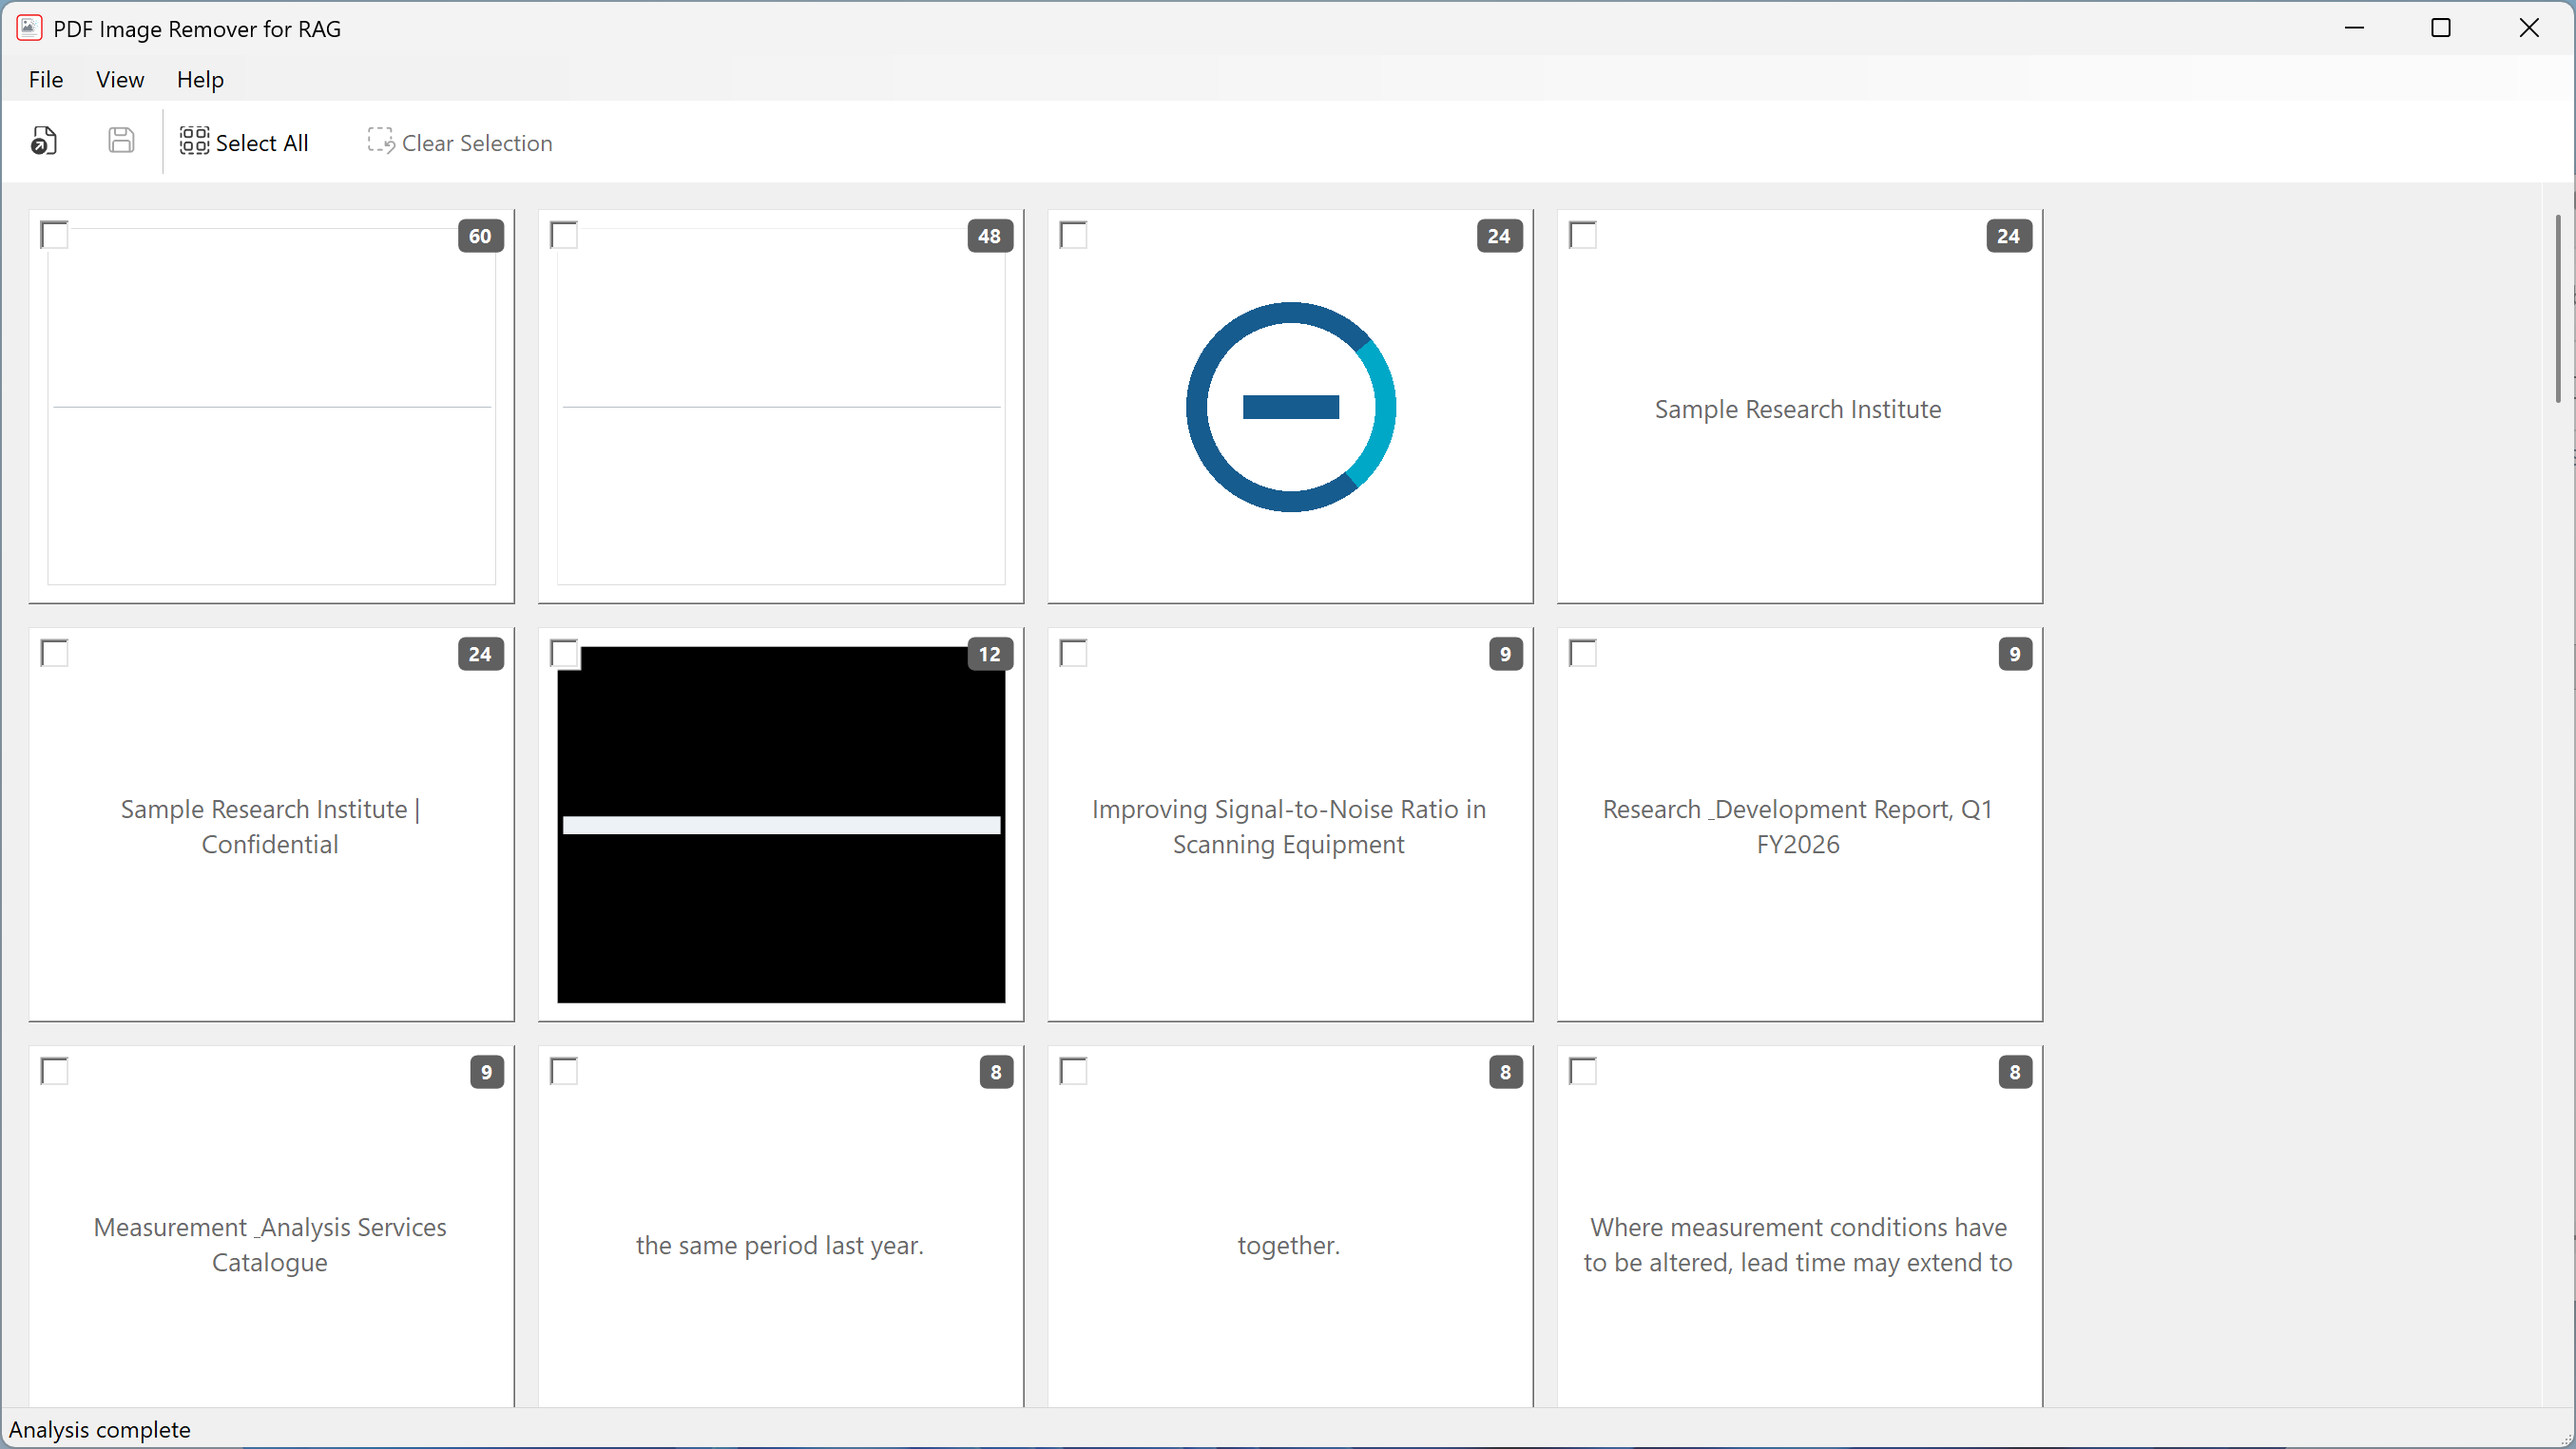
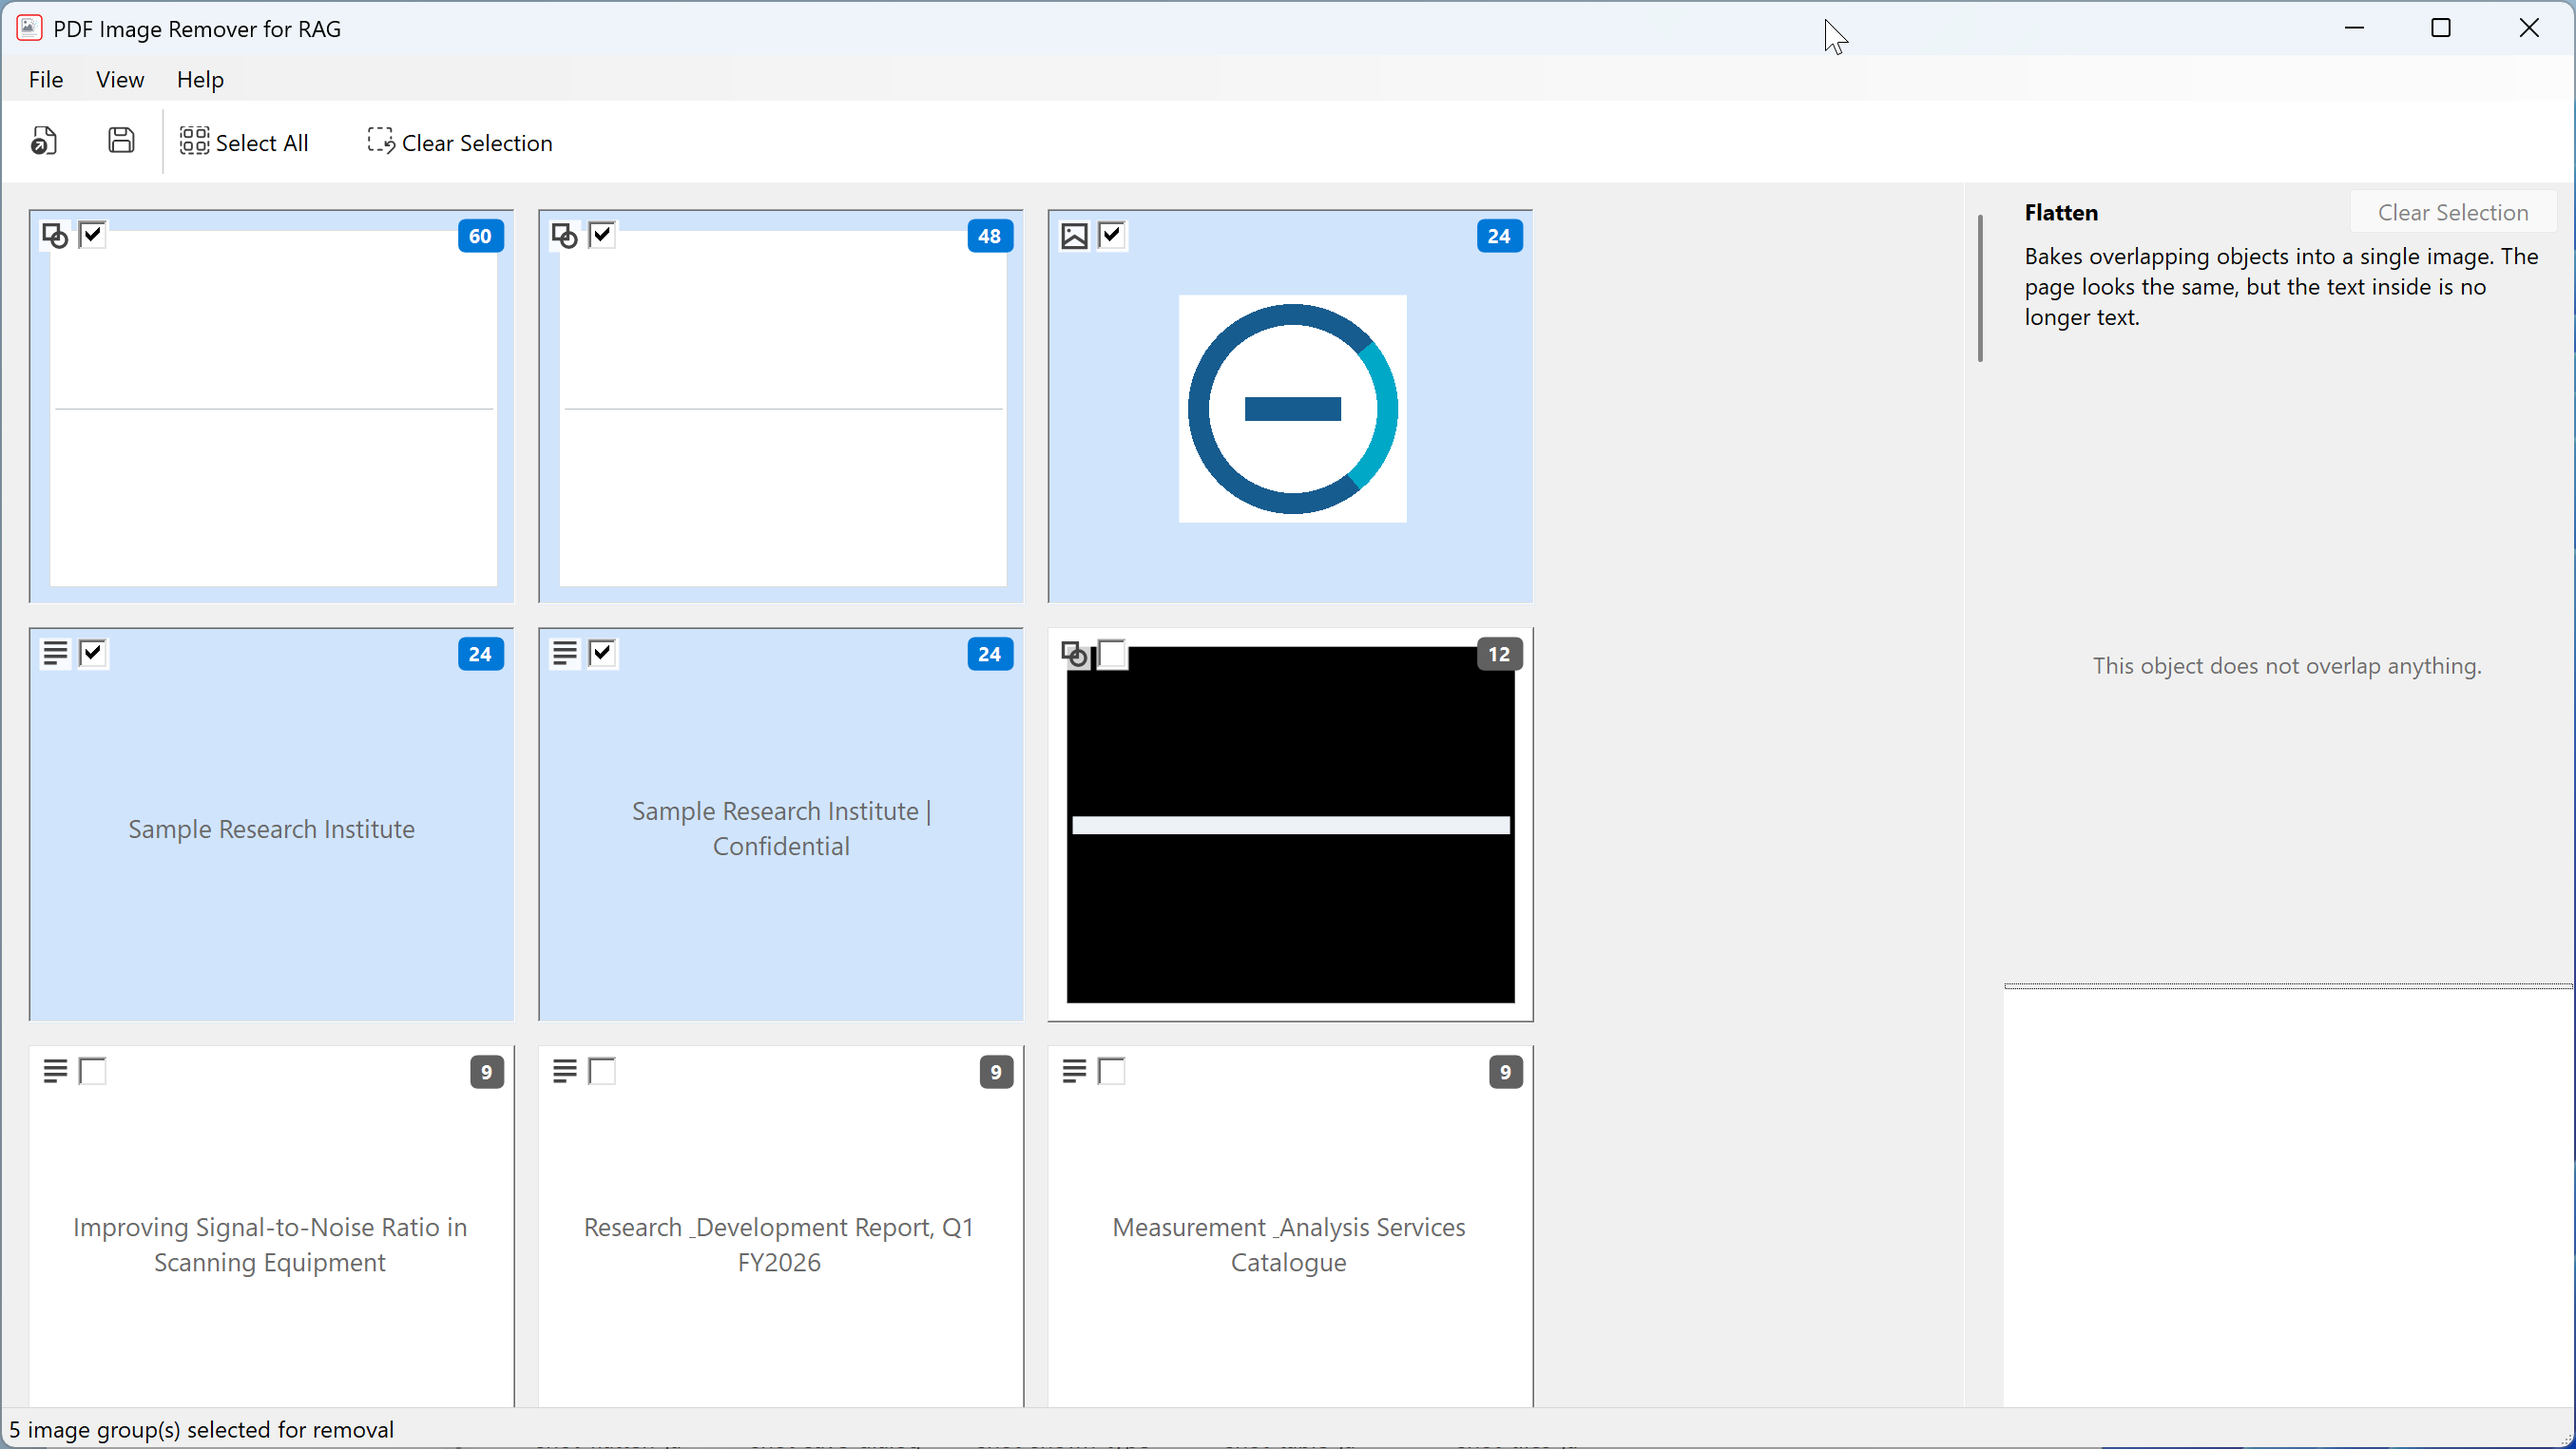
Reshoot the manual's screenshots
Every one of them predated the Flatten panel, which is now always beside
the object list -- so they showed a window the app no longer has, not
merely a window missing a feature.

The two captions that counted the ticked objects no longer do. The number
changes every time the picture is taken, and a caption that has to be
re-read against the image on each reshoot is a caption that will
eventually be wrong.

diff --git a/docs/manual.ja.md b/docs/manual.ja.md
@@ -77,7 +77,7 @@ English / 日本語 / 简体中文 / 繁體中文 / 한국어 / Deutsch / Franç
    - 対象ファイルが **1 つ**のとき: 保存ダイアログでファイル名を指定します。
    - 対象ファイルが **複数**のとき: フォルダーを選ぶと、各ファイルが `元ファイル名_cleaned.pdf` として保存されます。
 
-   ![保存先フォルダーの選択。3 件を削除対象にした状態](images/save-dialog-ja.png)
+   ![保存先フォルダーの選択。削除対象にチェックを付けた状態](images/save-dialog-ja.png)
 5. **完了** — ステータスバーに保存件数と削除箇所数が表示されます。取り除いたオブジェクトは一覧から消えます。
 
 ### 「開く」は現在の作業を置き換えます

diff --git a/docs/manual.en.md b/docs/manual.en.md
@@ -77,7 +77,7 @@ The window position and size are remembered on exit and restored next time (fall
    - **One** affected file: a save dialog asks for the file name.
    - **Several** affected files: pick a folder; each file is saved as `<name>_cleaned.pdf`.
 
-   ![Choosing the destination folder, with 3 objects marked for removal](images/save-dialog-en.png)
+   ![Choosing the destination folder, with objects marked for removal](images/save-dialog-en.png)
 5. **Done** — the status bar reports how many files were saved and how many draw calls were removed. The removed objects disappear from the list.
 
 ### Opening replaces your current work
